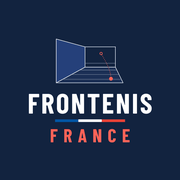
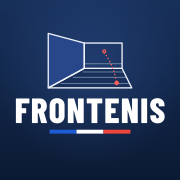
App sur téléphone : nouvelle icône, écrans de démarrage, plein écran et mise à jour automatique
- icône « terrain + FRONTENIS » (192, 512, apple-touch, maskable, favicon) et source icone.svg
- écrans de démarrage iPhone/iPad (demarrage/)
- manifest : couleurs, icônes maskable, id
- build-export.py : en-tête avec réglages app iOS/Android, barre d'état, zones sûres,
  rechargement quand de nouveaux résultats sont publiés ; option --entete

Claude-Session: https://claude.ai/code/session_018T6eym4fWJL8D9vHXh7iB4

diff --git a/index.html b/index.html
@@ -1,4 +1,29 @@
-<!doctype html><html lang="fr"><head><meta charset="utf-8"><meta name="viewport" content="width=device-width,initial-scale=1"><title>Frontenis France</title><meta name="description" content="Tout le Frontenis masculin sénior français dans une app : classements, résultats, plannings et palmarès."><meta property="og:type" content="website"><meta property="og:site_name" content="Frontenis France"><meta property="og:locale" content="fr_FR"><meta property="og:title" content="Frontenis France"><meta property="og:description" content="Tout le Frontenis masculin sénior français dans une app : classements, résultats, plannings et palmarès."><meta property="og:url" content="https://nicoterraffpb.github.io/Frontenis-France/"><meta property="og:image" content="https://nicoterraffpb.github.io/Frontenis-France/og.png"><meta property="og:image:width" content="1200"><meta property="og:image:height" content="630"><meta name="twitter:card" content="summary_large_image"><meta name="twitter:image" content="https://nicoterraffpb.github.io/Frontenis-France/og.png"><meta name="theme-color" content="#0b1f3a"><link rel="icon" type="image/png" href="icon-192.png"><link rel="apple-touch-icon" href="apple-touch-icon.png"><link rel="manifest" href="manifest.webmanifest"><style>:root{color-scheme:light}body{margin:0}img{max-width:100%}[hidden]{display:none!important}</style></head><body>
+<!doctype html><html lang="fr"><head><meta charset="utf-8"><meta name="viewport" content="width=device-width,initial-scale=1,viewport-fit=cover"><title>Frontenis France</title><meta name="description" content="Tout le Frontenis masculin sénior français dans une app : classements, résultats, plannings et palmarès."><meta property="og:type" content="website"><meta property="og:site_name" content="Frontenis France"><meta property="og:locale" content="fr_FR"><meta property="og:title" content="Frontenis France"><meta property="og:description" content="Tout le Frontenis masculin sénior français dans une app : classements, résultats, plannings et palmarès."><meta property="og:url" content="https://nicoterraffpb.github.io/Frontenis-France/"><meta property="og:image" content="https://nicoterraffpb.github.io/Frontenis-France/og.png"><meta property="og:image:width" content="1200"><meta property="og:image:height" content="630"><meta name="twitter:card" content="summary_large_image"><meta name="twitter:image" content="https://nicoterraffpb.github.io/Frontenis-France/og.png"><meta name="theme-color" content="#0B1628"><meta name="mobile-web-app-capable" content="yes"><meta name="apple-mobile-web-app-capable" content="yes"><meta name="apple-mobile-web-app-status-bar-style" content="black-translucent"><meta name="apple-mobile-web-app-title" content="Frontenis"><meta name="application-name" content="Frontenis"><link rel="icon" type="image/png" sizes="32x32" href="favicon-32.png"><link rel="icon" type="image/png" sizes="192x192" href="icon-192.png"><link rel="apple-touch-icon" href="apple-touch-icon.png"><link rel="manifest" href="manifest.webmanifest"><link rel="apple-touch-startup-image" media="(device-width: 440px) and (device-height: 956px) and (-webkit-device-pixel-ratio: 3) and (orientation: portrait)" href="demarrage/demarrage-1320x2868.png"><link rel="apple-touch-startup-image" media="(device-width: 430px) and (device-height: 932px) and (-webkit-device-pixel-ratio: 3) and (orientation: portrait)" href="demarrage/demarrage-1290x2796.png"><link rel="apple-touch-startup-image" media="(device-width: 428px) and (device-height: 926px) and (-webkit-device-pixel-ratio: 3) and (orientation: portrait)" href="demarrage/demarrage-1284x2778.png"><link rel="apple-touch-startup-image" media="(device-width: 420px) and (device-height: 912px) and (-webkit-device-pixel-ratio: 3) and (orientation: portrait)" href="demarrage/demarrage-1260x2736.png"><link rel="apple-touch-startup-image" media="(device-width: 414px) and (device-height: 896px) and (-webkit-device-pixel-ratio: 3) and (orientation: portrait)" href="demarrage/demarrage-1242x2688.png"><link rel="apple-touch-startup-image" media="(device-width: 414px) and (device-height: 896px) and (-webkit-device-pixel-ratio: 2) and (orientation: portrait)" href="demarrage/demarrage-828x1792.png"><link rel="apple-touch-startup-image" media="(device-width: 414px) and (device-height: 736px) and (-webkit-device-pixel-ratio: 3) and (orientation: portrait)" href="demarrage/demarrage-1242x2208.png"><link rel="apple-touch-startup-image" media="(device-width: 402px) and (device-height: 874px) and (-webkit-device-pixel-ratio: 3) and (orientation: portrait)" href="demarrage/demarrage-1206x2622.png"><link rel="apple-touch-startup-image" media="(device-width: 393px) and (device-height: 852px) and (-webkit-device-pixel-ratio: 3) and (orientation: portrait)" href="demarrage/demarrage-1179x2556.png"><link rel="apple-touch-startup-image" media="(device-width: 390px) and (device-height: 844px) and (-webkit-device-pixel-ratio: 3) and (orientation: portrait)" href="demarrage/demarrage-1170x2532.png"><link rel="apple-touch-startup-image" media="(device-width: 375px) and (device-height: 812px) and (-webkit-device-pixel-ratio: 3) and (orientation: portrait)" href="demarrage/demarrage-1125x2436.png"><link rel="apple-touch-startup-image" media="(device-width: 375px) and (device-height: 667px) and (-webkit-device-pixel-ratio: 2) and (orientation: portrait)" href="demarrage/demarrage-750x1334.png"><link rel="apple-touch-startup-image" media="(device-width: 320px) and (device-height: 568px) and (-webkit-device-pixel-ratio: 2) and (orientation: portrait)" href="demarrage/demarrage-640x1136.png"><link rel="apple-touch-startup-image" media="(device-width: 1032px) and (device-height: 1376px) and (-webkit-device-pixel-ratio: 2) and (orientation: portrait)" href="demarrage/demarrage-2064x2752.png"><link rel="apple-touch-startup-image" media="(device-width: 1024px) and (device-height: 1366px) and (-webkit-device-pixel-ratio: 2) and (orientation: portrait)" href="demarrage/demarrage-2048x2732.png"><link rel="apple-touch-startup-image" media="(device-width: 834px) and (device-height: 1210px) and (-webkit-device-pixel-ratio: 2) and (orientation: portrait)" href="demarrage/demarrage-1668x2420.png"><link rel="apple-touch-startup-image" media="(device-width: 834px) and (device-height: 1194px) and (-webkit-device-pixel-ratio: 2) and (orientation: portrait)" href="demarrage/demarrage-1668x2388.png"><link rel="apple-touch-startup-image" media="(device-width: 834px) and (device-height: 1112px) and (-webkit-device-pixel-ratio: 2) and (orientation: portrait)" href="demarrage/demarrage-1668x2224.png"><link rel="apple-touch-startup-image" media="(device-width: 820px) and (device-height: 1180px) and (-webkit-device-pixel-ratio: 2) and (orientation: portrait)" href="demarrage/demarrage-1640x2360.png"><link rel="apple-touch-startup-image" media="(device-width: 810px) and (device-height: 1080px) and (-webkit-device-pixel-ratio: 2) and (orientation: portrait)" href="demarrage/demarrage-1620x2160.png"><link rel="apple-touch-startup-image" media="(device-width: 768px) and (device-height: 1024px) and (-webkit-device-pixel-ratio: 2) and (orientation: portrait)" href="demarrage/demarrage-1536x2048.png"><link rel="apple-touch-startup-image" media="(device-width: 744px) and (device-height: 1133px) and (-webkit-device-pixel-ratio: 2) and (orientation: portrait)" href="demarrage/demarrage-1488x2266.png"><style>:root{color-scheme:light}body{margin:0}img{max-width:100%}[hidden]{display:none!important}:root{padding-top:env(safe-area-inset-top,0px)}.pwa body::before{background:#0B1628!important}.pwa,.pwa body{overscroll-behavior-y:none}.pwa body{-webkit-tap-highlight-color:transparent}.ff-maj{position:fixed;left:50%;transform:translateX(-50%);bottom:calc(18px + env(safe-area-inset-bottom,0px));z-index:95;display:flex;align-items:center;gap:8px;font:600 15px/1 Barlow,system-ui,sans-serif;color:#fff;background:#12233F;border:1px solid #2C4268;border-radius:999px;padding:12px 18px;box-shadow:0 10px 30px rgba(0,0,0,.35);cursor:pointer;white-space:nowrap}.ff-maj b{color:#FFEB7A}.ff-maj span{width:9px;height:9px;border-radius:50%;background:#FF5F57;flex:none}@media (prefers-reduced-motion:no-preference){.ff-maj{animation:ffmaj .5s cubic-bezier(.23,1,.32,1) both}}@keyframes ffmaj{from{opacity:0;transform:translate(-50%,16px)}}@media print{.ff-maj{display:none}}</style><script>(function(){
+var d=document.documentElement,sa=false;try{sa=navigator.standalone===true||matchMedia("(display-mode: standalone)").matches||matchMedia("(display-mode: fullscreen)").matches}catch(e){}
+if(sa)d.classList.add("pwa");
+var tag=null,busy=false,hidAt=0,pill=null,LIVE=/^#(jour-j|nat-a)/;
+function snapAt(t){var m=/"at":\s*"([^"]+)"/.exec(t||"");return m?m[1]:""}
+function curAt(){var e=document.getElementById("snap");return e?snapAt(e.textContent.slice(0,200)):""}
+function show(){if(pill)return;pill=document.createElement("button");pill.type="button";pill.className="ff-maj";pill.innerHTML='<span></span>Nouveaux résultats · <b>Mettre à jour</b>';pill.onclick=function(){location.reload()};document.body.appendChild(pill)}
+function check(auto){
+  if(busy||document.hidden||(navigator.onLine===false))return;busy=true;
+  fetch(location.pathname,{method:"HEAD",cache:"no-store"}).then(function(r){
+    var k=r.headers.get("etag")||r.headers.get("last-modified");
+    if(!k||k===tag){busy=false;return}
+    var first=tag===null;tag=k;if(first){busy=false;return}
+    return fetch(location.pathname,{cache:"no-store"}).then(function(x){return x.text()}).then(function(t){
+      busy=false;var i=t.indexOf('id="sn'+'ap">{'),a=i<0?"":snapAt(t.slice(i,i+300)),c=curAt();
+      if(!a||!c||a<=c)return;
+      if(auto||LIVE.test(location.hash))location.reload();else show();
+    });
+  }).catch(function(){busy=false});
+}
+document.addEventListener("visibilitychange",function(){
+  if(document.hidden){hidAt=Date.now();return}
+  check(hidAt&&Date.now()-hidAt>20000);
+});
+check(false);setInterval(function(){check(false)},90000);
+})();</script></head><body>
 <!doctype html><html><head><meta charset=utf8><meta name=viewport content="width=device-width,initial-scale=1,viewport-fit=cover"><style>:root{color-scheme:light;box-sizing:border-box;padding-top:env(safe-area-inset-top,0px);padding-bottom:env(safe-area-inset-bottom,0px)}html{scroll-padding-top:env(safe-area-inset-top,0px)}body{margin:0;padding:0;font:14px -apple-system,BlinkMacSystemFont,sans-serif;background:#fff;color:#000}img{max-width:100%}[hidden]:not([hidden=until-found i]){display:none!important}</style></head><body>
 <title>Frontenis France</title>
 <meta name="claude:viewport-fit-sides" content="cover">

diff --git a/outil/build-export.py b/outil/build-export.py
@@ -1,9 +1,65 @@
 # usage: python3 build-export.py <dossier_live> <page_source.html> <sortie/index.html> [dossier_sauvegarde]
+# usage 2 : python3 build-export.py --entete <index.html>  (remplace seulement l'en-tête d'un index.html déjà construit)
 import json,glob,os,datetime,sys,shutil
+SITE="https://nicoterraffpb.github.io/Frontenis-France/"
+DESC="Tout le Frontenis masculin sénior français dans une app : classements, résultats, plannings et palmarès."
+# écrans de démarrage iPhone / iPad (fichiers dans demarrage/, générés à partir de icone.svg)
+STARTUP='<link rel="apple-touch-startup-image" media="(device-width: 440px) and (device-height: 956px) and (-webkit-device-pixel-ratio: 3) and (orientation: portrait)" href="demarrage/demarrage-1320x2868.png"><link rel="apple-touch-startup-image" media="(device-width: 430px) and (device-height: 932px) and (-webkit-device-pixel-ratio: 3) and (orientation: portrait)" href="demarrage/demarrage-1290x2796.png"><link rel="apple-touch-startup-image" media="(device-width: 428px) and (device-height: 926px) and (-webkit-device-pixel-ratio: 3) and (orientation: portrait)" href="demarrage/demarrage-1284x2778.png"><link rel="apple-touch-startup-image" media="(device-width: 420px) and (device-height: 912px) and (-webkit-device-pixel-ratio: 3) and (orientation: portrait)" href="demarrage/demarrage-1260x2736.png"><link rel="apple-touch-startup-image" media="(device-width: 414px) and (device-height: 896px) and (-webkit-device-pixel-ratio: 3) and (orientation: portrait)" href="demarrage/demarrage-1242x2688.png"><link rel="apple-touch-startup-image" media="(device-width: 414px) and (device-height: 896px) and (-webkit-device-pixel-ratio: 2) and (orientation: portrait)" href="demarrage/demarrage-828x1792.png"><link rel="apple-touch-startup-image" media="(device-width: 414px) and (device-height: 736px) and (-webkit-device-pixel-ratio: 3) and (orientation: portrait)" href="demarrage/demarrage-1242x2208.png"><link rel="apple-touch-startup-image" media="(device-width: 402px) and (device-height: 874px) and (-webkit-device-pixel-ratio: 3) and (orientation: portrait)" href="demarrage/demarrage-1206x2622.png"><link rel="apple-touch-startup-image" media="(device-width: 393px) and (device-height: 852px) and (-webkit-device-pixel-ratio: 3) and (orientation: portrait)" href="demarrage/demarrage-1179x2556.png"><link rel="apple-touch-startup-image" media="(device-width: 390px) and (device-height: 844px) and (-webkit-device-pixel-ratio: 3) and (orientation: portrait)" href="demarrage/demarrage-1170x2532.png"><link rel="apple-touch-startup-image" media="(device-width: 375px) and (device-height: 812px) and (-webkit-device-pixel-ratio: 3) and (orientation: portrait)" href="demarrage/demarrage-1125x2436.png"><link rel="apple-touch-startup-image" media="(device-width: 375px) and (device-height: 667px) and (-webkit-device-pixel-ratio: 2) and (orientation: portrait)" href="demarrage/demarrage-750x1334.png"><link rel="apple-touch-startup-image" media="(device-width: 320px) and (device-height: 568px) and (-webkit-device-pixel-ratio: 2) and (orientation: portrait)" href="demarrage/demarrage-640x1136.png"><link rel="apple-touch-startup-image" media="(device-width: 1032px) and (device-height: 1376px) and (-webkit-device-pixel-ratio: 2) and (orientation: portrait)" href="demarrage/demarrage-2064x2752.png"><link rel="apple-touch-startup-image" media="(device-width: 1024px) and (device-height: 1366px) and (-webkit-device-pixel-ratio: 2) and (orientation: portrait)" href="demarrage/demarrage-2048x2732.png"><link rel="apple-touch-startup-image" media="(device-width: 834px) and (device-height: 1210px) and (-webkit-device-pixel-ratio: 2) and (orientation: portrait)" href="demarrage/demarrage-1668x2420.png"><link rel="apple-touch-startup-image" media="(device-width: 834px) and (device-height: 1194px) and (-webkit-device-pixel-ratio: 2) and (orientation: portrait)" href="demarrage/demarrage-1668x2388.png"><link rel="apple-touch-startup-image" media="(device-width: 834px) and (device-height: 1112px) and (-webkit-device-pixel-ratio: 2) and (orientation: portrait)" href="demarrage/demarrage-1668x2224.png"><link rel="apple-touch-startup-image" media="(device-width: 820px) and (device-height: 1180px) and (-webkit-device-pixel-ratio: 2) and (orientation: portrait)" href="demarrage/demarrage-1640x2360.png"><link rel="apple-touch-startup-image" media="(device-width: 810px) and (device-height: 1080px) and (-webkit-device-pixel-ratio: 2) and (orientation: portrait)" href="demarrage/demarrage-1620x2160.png"><link rel="apple-touch-startup-image" media="(device-width: 768px) and (device-height: 1024px) and (-webkit-device-pixel-ratio: 2) and (orientation: portrait)" href="demarrage/demarrage-1536x2048.png"><link rel="apple-touch-startup-image" media="(device-width: 744px) and (device-height: 1133px) and (-webkit-device-pixel-ratio: 2) and (orientation: portrait)" href="demarrage/demarrage-1488x2266.png">'
+# appli installée : barre d'état, zones sûres, et rechargement quand de nouveaux résultats sont publiés
+APP_JS=r"""<script>(function(){
+var d=document.documentElement,sa=false;try{sa=navigator.standalone===true||matchMedia("(display-mode: standalone)").matches||matchMedia("(display-mode: fullscreen)").matches}catch(e){}
+if(sa)d.classList.add("pwa");
+var tag=null,busy=false,hidAt=0,pill=null,LIVE=/^#(jour-j|nat-a)/;
+function snapAt(t){var m=/"at":\s*"([^"]+)"/.exec(t||"");return m?m[1]:""}
+function curAt(){var e=document.getElementById("snap");return e?snapAt(e.textContent.slice(0,200)):""}
+function show(){if(pill)return;pill=document.createElement("button");pill.type="button";pill.className="ff-maj";pill.innerHTML='<span></span>Nouveaux résultats · <b>Mettre à jour</b>';pill.onclick=function(){location.reload()};document.body.appendChild(pill)}
+function check(auto){
+  if(busy||document.hidden||(navigator.onLine===false))return;busy=true;
+  fetch(location.pathname,{method:"HEAD",cache:"no-store"}).then(function(r){
+    var k=r.headers.get("etag")||r.headers.get("last-modified");
+    if(!k||k===tag){busy=false;return}
+    var first=tag===null;tag=k;if(first){busy=false;return}
+    return fetch(location.pathname,{cache:"no-store"}).then(function(x){return x.text()}).then(function(t){
+      busy=false;var i=t.indexOf('id="sn'+'ap">{'),a=i<0?"":snapAt(t.slice(i,i+300)),c=curAt();
+      if(!a||!c||a<=c)return;
+      if(auto||LIVE.test(location.hash))location.reload();else show();
+    });
+  }).catch(function(){busy=false});
+}
+document.addEventListener("visibilitychange",function(){
+  if(document.hidden){hidAt=Date.now();return}
+  check(hidAt&&Date.now()-hidAt>20000);
+});
+check(false);setInterval(function(){check(false)},90000);
+})();</script>"""
+APP_CSS=(":root{padding-top:env(safe-area-inset-top,0px)}"
+ ".pwa body::before{background:#0B1628!important}"
+ ".pwa,.pwa body{overscroll-behavior-y:none}.pwa body{-webkit-tap-highlight-color:transparent}"
+ ".ff-maj{position:fixed;left:50%;transform:translateX(-50%);bottom:calc(18px + env(safe-area-inset-bottom,0px));z-index:95;display:flex;align-items:center;gap:8px;"
+ "font:600 15px/1 Barlow,system-ui,sans-serif;color:#fff;background:#12233F;border:1px solid #2C4268;border-radius:999px;padding:12px 18px;box-shadow:0 10px 30px rgba(0,0,0,.35);cursor:pointer;white-space:nowrap}"
+ ".ff-maj b{color:#FFEB7A}.ff-maj span{width:9px;height:9px;border-radius:50%;background:#FF5F57;flex:none}"
+ "@media (prefers-reduced-motion:no-preference){.ff-maj{animation:ffmaj .5s cubic-bezier(.23,1,.32,1) both}}"
+ "@keyframes ffmaj{from{opacity:0;transform:translate(-50%,16px)}}@media print{.ff-maj{display:none}}")
+def make_head():
+    return ('<!doctype html><html lang="fr"><head><meta charset="utf-8"><meta name="viewport" content="width=device-width,initial-scale=1,viewport-fit=cover">'
+ '<title>Frontenis France</title>'
+ '<meta name="description" content="%s">'
+ '<meta property="og:type" content="website"><meta property="og:site_name" content="Frontenis France"><meta property="og:locale" content="fr_FR">'
+ '<meta property="og:title" content="Frontenis France"><meta property="og:description" content="%s">'
+ '<meta property="og:url" content="%s"><meta property="og:image" content="%sog.png"><meta property="og:image:width" content="1200"><meta property="og:image:height" content="630">'
+ '<meta name="twitter:card" content="summary_large_image"><meta name="twitter:image" content="%sog.png">'
+ '<meta name="theme-color" content="#0B1628"><meta name="mobile-web-app-capable" content="yes"><meta name="apple-mobile-web-app-capable" content="yes">'
+ '<meta name="apple-mobile-web-app-status-bar-style" content="black-translucent"><meta name="apple-mobile-web-app-title" content="Frontenis"><meta name="application-name" content="Frontenis">'
+ '<link rel="icon" type="image/png" sizes="32x32" href="favicon-32.png"><link rel="icon" type="image/png" sizes="192x192" href="icon-192.png">'
+ '<link rel="apple-touch-icon" href="apple-touch-icon.png"><link rel="manifest" href="manifest.webmanifest">'
+ '%s'
+ '<style>:root{color-scheme:light}body{margin:0}img{max-width:100%%}[hidden]{display:none!important}%s</style>%s</head><body>\n')%(DESC,DESC,SITE,SITE,SITE,STARTUP,APP_CSS,APP_JS)
+if len(sys.argv)>2 and sys.argv[1]=='--entete':
+    f=sys.argv[2];t=open(f,encoding='utf-8').read();i=t.index('<body>\n')+7
+    open(f,'w',encoding='utf-8').write(make_head()+t[i:]);print("en-tête remplacé dans",f);sys.exit(0)
 from zoneinfo import ZoneInfo
 S=sys.argv[1].rstrip('/')+'/'
 SRC=sys.argv[2];OUT=sys.argv[3];BK=sys.argv[4] if len(sys.argv)>4 else None
-SITE="https://nicoterraffpb.github.io/Frontenis-France/"
 def load(col):
     out=[]
     for f in sorted(glob.glob(S+col+'/*.json')):
@@ -27,15 +83,7 @@ snap["intl"]=[{k:v for k,v in c.items()} for c in load('intl')] if cfg.get('seni
 src=open(SRC,encoding='utf-8').read()
 blob=json.dumps(snap,ensure_ascii=False).replace("</","<\\/")
 page=src.replace('<script type="application/json" id="snap"></script>','<script type="application/json" id="snap">'+blob+'</script>',1)
-head=('<!doctype html><html lang="fr"><head><meta charset="utf-8"><meta name="viewport" content="width=device-width,initial-scale=1">'
- '<title>Frontenis France</title>'
- '<meta name="description" content="Tout le Frontenis masculin sénior français dans une app : classements, résultats, plannings et palmarès.">'
- '<meta property="og:type" content="website"><meta property="og:site_name" content="Frontenis France"><meta property="og:locale" content="fr_FR">'
- '<meta property="og:title" content="Frontenis France"><meta property="og:description" content="Tout le Frontenis masculin sénior français dans une app : classements, résultats, plannings et palmarès.">'
- '<meta property="og:url" content="%s"><meta property="og:image" content="%sog.png"><meta property="og:image:width" content="1200"><meta property="og:image:height" content="630">'
- '<meta name="twitter:card" content="summary_large_image"><meta name="twitter:image" content="%sog.png">'
- '<meta name="theme-color" content="#0b1f3a"><link rel="icon" type="image/png" href="icon-192.png"><link rel="apple-touch-icon" href="apple-touch-icon.png"><link rel="manifest" href="manifest.webmanifest">'
- '<style>:root{color-scheme:light}body{margin:0}img{max-width:100%%}[hidden]{display:none!important}</style></head><body>\n')%(SITE,SITE,SITE)
+head=make_head()
 doc=head+page+'\n</body></html>'
 open(OUT,'w',encoding='utf-8').write(doc)
 print(len(players),"joueurs,",len(entries),"équipes,",len(snap["tournaments"]),"étapes")
